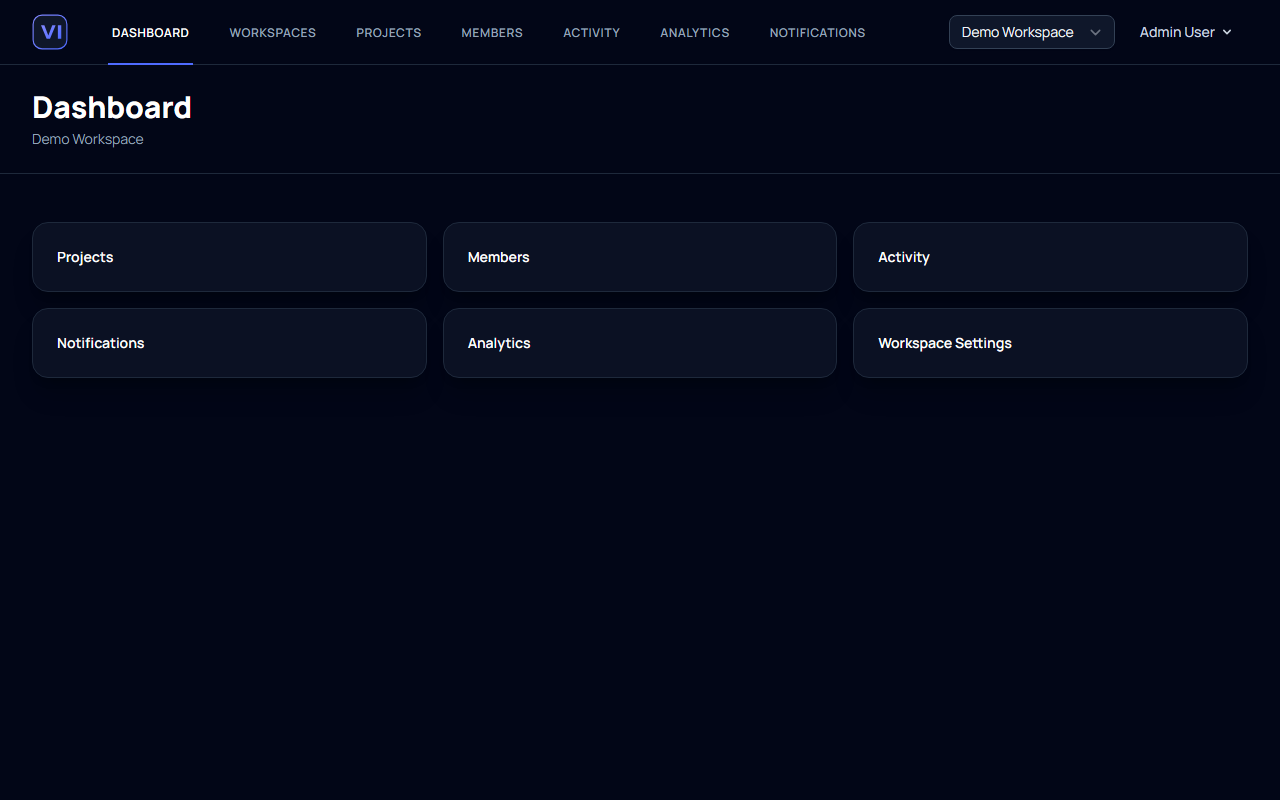
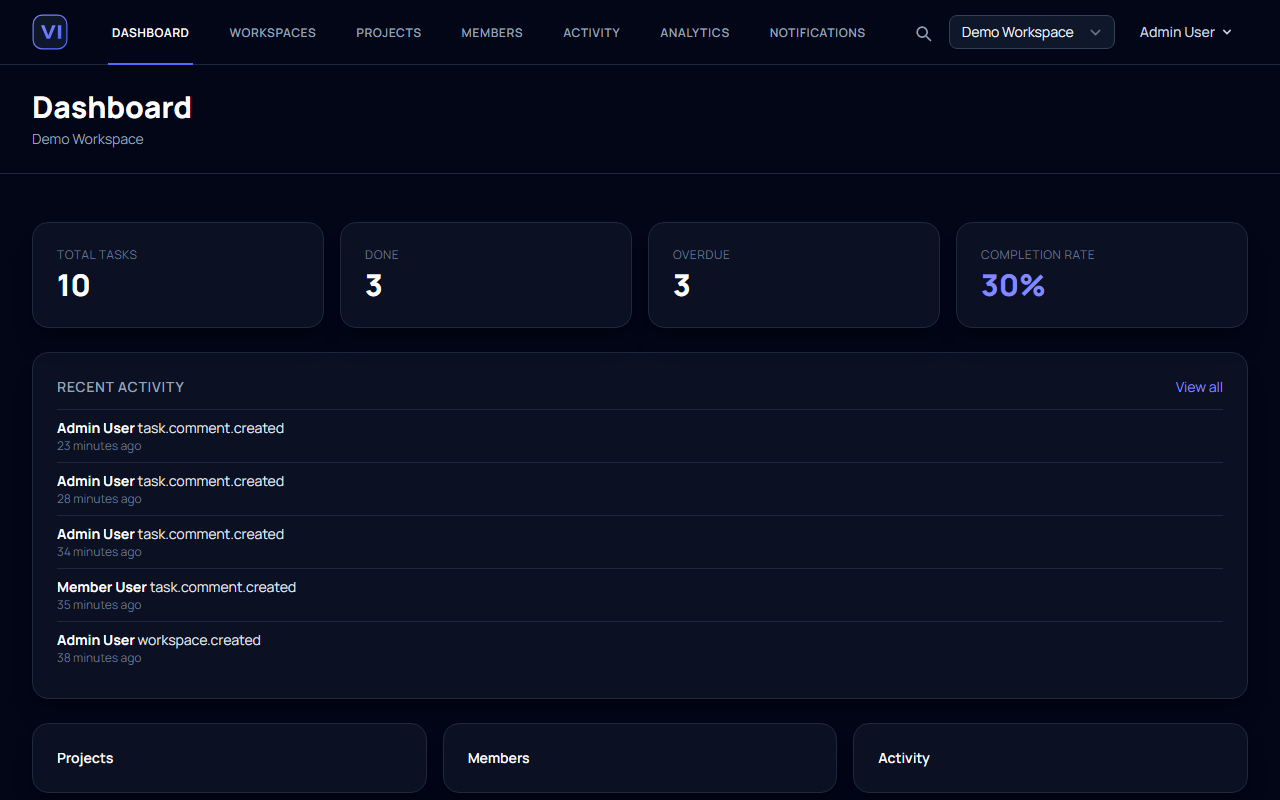
chore: clean up composer.json metadata, document new features in README
- composer.json still had the untouched default Laravel skeleton name,
  description, and keywords; set them to describe TeamNest, add an
  authors entry, and drop the unused pestphp/pest-plugin allow-plugins
  entry (this project uses plain PHPUnit, not Pest).
- README: add onboarding, global search, and real-time updates to the
  feature list; add a Real-Time Updates setup section documenting the
  Pusher env vars and the queue-worker requirement; add a search
  screenshot and replace the dashboard screenshot, which predated the
  stats/recent-activity work and showed the old bare nav-grid dashboard.

diff --git a/README.md b/README.md
@@ -1,6 +1,6 @@
 # TeamNest
 
-TeamNest is a portfolio-grade Laravel mini-SaaS for managing projects and tasks inside isolated team workspaces — multi-tenant RBAC, a drag-and-drop Kanban board, and a full before/after audit trail on every tracked change.
+TeamNest is a portfolio-grade Laravel mini-SaaS for managing projects and tasks inside isolated team workspaces — multi-tenant RBAC, a real-time Kanban board, global search, and a full before/after audit trail on every tracked change.
 
 Not deployed yet — run it locally with [Setup](#setup) below, then log in with the [demo accounts](#demo-accounts).
 
@@ -10,9 +10,13 @@ Not deployed yet — run it locally with [Setup](#setup) below, then log in with
 |---|---|
 | ![Landing page](docs/screenshots/landing.png) | ![Kanban board](docs/screenshots/kanban.png) |
 
-| Dashboard | Members & invitations |
+| Dashboard | Global search (Cmd/Ctrl+K) |
 |---|---|
-| ![Dashboard](docs/screenshots/dashboard.png) | ![Members and invitations](docs/screenshots/members.png) |
+| ![Dashboard](docs/screenshots/dashboard.png) | ![Global search](docs/screenshots/search.png) |
+
+| Members & invitations |
+|---|
+| ![Members and invitations](docs/screenshots/members.png) |
 
 <details>
 <summary>Sign-up screen</summary>
@@ -26,15 +30,18 @@ Not deployed yet — run it locally with [Setup](#setup) below, then log in with
 - Laravel 12 + Breeze (Blade + Tailwind) authentication
 - Workspace-scoped multi-tenancy with session-based current workspace
 - Workspace RBAC (`admin`, `member`)
+- Guided first-run onboarding with real empty states (no workspace yet, no projects yet, no activity yet)
+- Global search (Cmd/Ctrl+K) across projects, tasks, and members, scoped to the current workspace
 - Invitation flow with expiring token links and secure token hashing
 - Queued invitation and reminder emails (database queue)
 - Activity log with actor, subject, action, metadata JSON
 - Task audit trail storing `before` / `after` diffs for changed tracked fields
 - Project and task soft delete + restore + force delete trash views
 - Task filtering by status/assignee/overdue/priority and search by title/description
-- Kanban drag-and-drop board with optimistic UI updates
+- Real-time Kanban board (Pusher-backed): drag-and-drop moves broadcast live to every other viewer, plus a "who's viewing now" presence indicator
+- Live task comments — a comment posted by a teammate appears on an open task page with no refresh
 - Task comments with `@email` mentions + file attachments
-- In-app notifications inbox with unread state
+- In-app notifications inbox with unread state, with the nav badge updating live on new mentions
 - Daily due-date reminder pipeline (queued email + in-app notification)
 - Saved task filter views and bulk task actions
 - Workspace settings (branding/role/timezone/retention)
@@ -62,9 +69,27 @@ php artisan storage:link
 php artisan serve
 ```
 
+## Real-Time Updates
+
+Live Kanban moves, live comments, and the live notification badge run over [Pusher Channels](https://pusher.com/channels) (a hosted WebSocket service, not a self-hosted server). Without credentials configured, the app runs normally — real-time features just silently stay off.
+
+To enable them, create a free Pusher Channels app and add its credentials to `.env`:
+
+```env
+BROADCAST_CONNECTION=pusher
+PUSHER_APP_ID=
+PUSHER_APP_KEY=
+PUSHER_APP_SECRET=
+PUSHER_APP_CLUSTER=
+VITE_PUSHER_APP_KEY="${PUSHER_APP_KEY}"
+VITE_PUSHER_APP_CLUSTER="${PUSHER_APP_CLUSTER}"
+```
+
+Broadcast events are queued, so a running queue worker is required for real-time updates to actually deliver (see below) — `npm run build` (or `npm run dev`) must also be re-run after changing the `VITE_PUSHER_*` values, since they're compiled into the frontend bundle.
+
 ## Queue + Scheduler
 
-Default queue driver is `database`.
+Default queue driver is `database`. A running worker is required both for the daily reminder jobs below and for real-time broadcast events (Kanban moves, comments, notifications) to actually deliver.
 
 ```bash
 php artisan queue:work
